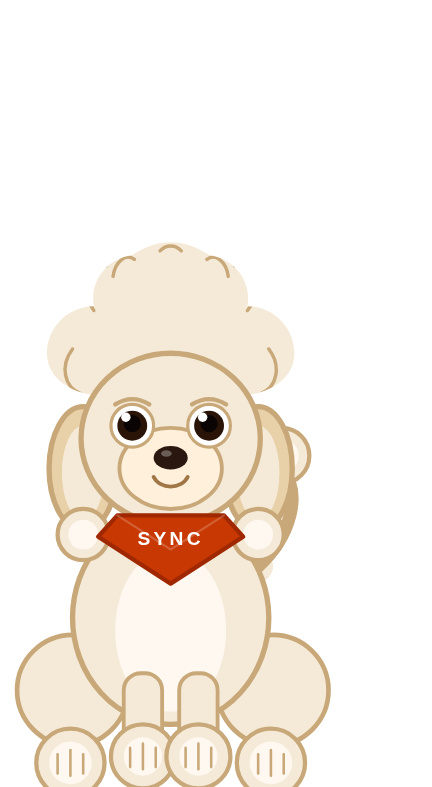
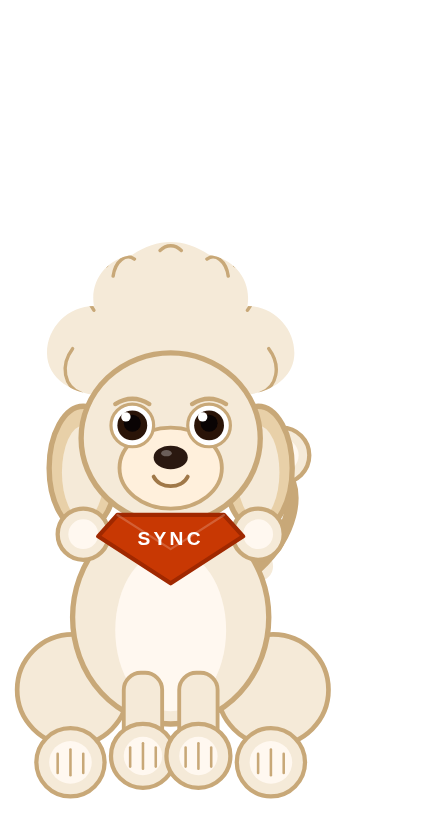
Why section: fix dog crop/scale, use individual images with dog 20% larger
- Re-rendered mascot-sync.png with extended viewBox to include full paws
- Switched back to individual images aligned at feet
- Heights: Med 124px, Dr. Henley 299px, Sync 294px (20% over natural ratio)

Claude-Session: https://claude.ai/code/session_01Bm2o7jnq5rnKSEr42urvbC

Changed region(s): [[0.0301, 0.3659, 0.7824, 1.0], [0.0903, 0.2745, 0.5718, 0.4574], [0.3009, 0.7929, 0.3611, 0.8234]]

diff --git a/scout.html b/scout.html
@@ -671,9 +671,15 @@ a:focus-visible { outline: 2px solid var(--orange); outline-offset: 3px; border-
           </div>
         </div>
         <div class="why-visual-bottom">
-          <!-- Mascot trio — same image as hero, scaled to fit panel -->
-          <img src="mascot-trio.png" alt="Med the cat, Dr. Henley, and Sync the poodle"
-               style="width:100%;height:auto;filter:drop-shadow(0 4px 12px rgba(0,0,0,0.3));margin-bottom:4px;">
+          <!-- Mascot trio — individual images aligned at feet, dog 20% larger than scene ratio -->
+          <div style="display:flex;align-items:flex-end;justify-content:center;gap:2px;">
+            <img src="mascot-med.png" alt="Med the cat"
+                 style="height:124px;width:auto;filter:drop-shadow(0 4px 10px rgba(0,0,0,0.35));">
+            <img src="mascot-dr-henley.png" alt="Dr. Henley"
+                 style="height:299px;width:auto;filter:drop-shadow(0 4px 10px rgba(0,0,0,0.35));">
+            <img src="mascot-sync.png" alt="Sync the poodle"
+                 style="height:294px;width:auto;filter:drop-shadow(0 4px 10px rgba(0,0,0,0.35));">
+          </div>
           <div style="font-size:11px;color:rgba(255,255,255,0.55);line-height:1.5;text-align:center;">
             Log in for live numbers by location.
           </div>
